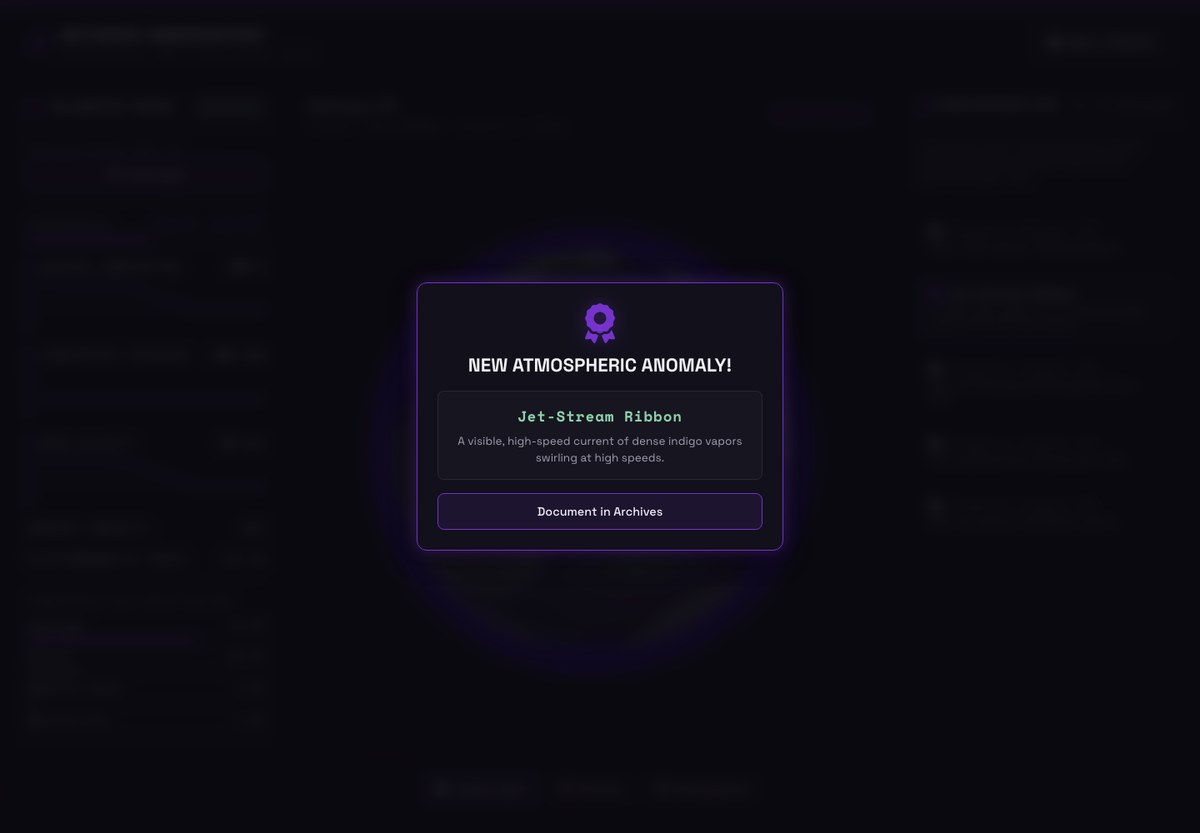
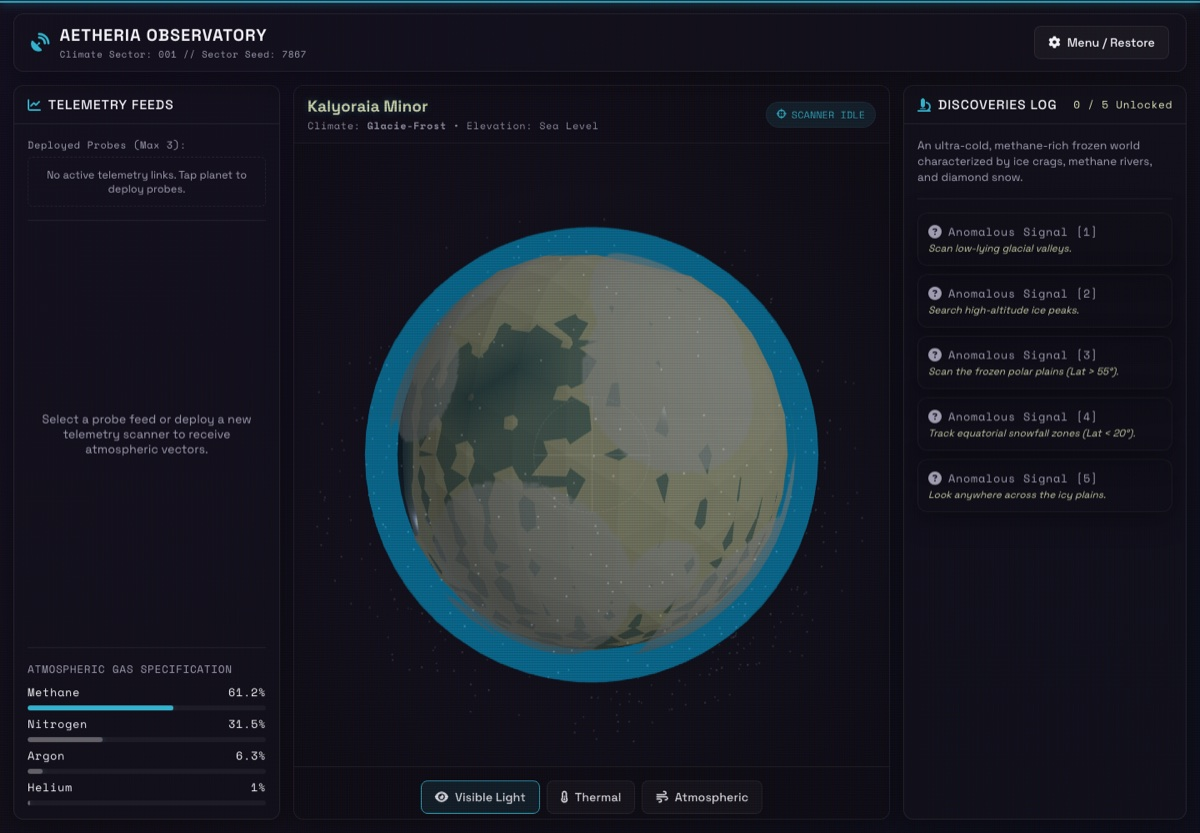
Update alien weather comparison notes

diff --git a/content/posts/alien-weather-observatory-model-comparison.md b/content/posts/alien-weather-observatory-model-comparison.md
@@ -43,7 +43,7 @@ The release checklist was simple:
 - localStorage receives the expected project key.
 - Desktop and mobile layouts avoid horizontal overflow.
 
-The live screenshot pixel checks all passed. The browser console checks were more informative than the screenshots. OpenCode had a real shader compile error before repair. Antigravity shipped with nonfatal Three.js and WebGL warnings. Claude shipped with deprecation warnings. Codex was clean apart from Chromium GPU readback warnings caused by screenshot capture.
+The live screenshot pixel checks all passed. The browser console checks were more informative than the screenshots. OpenCode had a real shader compile error before repair. Antigravity shipped with nonfatal WebGL warnings. Claude shipped with deprecation warnings. Codex was clean apart from Chromium GPU readback warnings caused by screenshot capture.
 
 ![Mobile comparison of the four alien weather observatories](/content/images/alien-weather-observatory-mobile-strip.jpg)
 
@@ -146,7 +146,7 @@ The UI has a strong instrument fantasy. It is less pastel and quiet than the pro
 
 The harness had two important behaviors. First, it stopped after about `50s` with an implementation plan and required a `Proceed` click. I treated that as a harness gate, not a prompt improvement. Second, after about `11m` of implementation it reported that its browser subagent could not run because Chromium automation was only supported on Linux in its sandbox. I did the external Playwright QA myself.
 
-The code is less tidy than the best parts of Claude or GLM. Much of the core implementation sits in a large `App.tsx`, with generated assets and template leftovers around it. Font Awesome is loaded from a CDN rather than installed as a local dependency. The build passes, but the live browser console reports Three.js deprecations and WebGL `texImage3D` warnings.
+The code is less tidy than the best parts of Claude or GLM. Much of the core implementation sits in a large `App.tsx`, with generated assets and template leftovers around it. Font Awesome is loaded from a CDN rather than installed as a local dependency. After the first deployment, a small generated component diff appeared in the working tree. I treated it as part of the Antigravity run, committed it, rebuilt, and redeployed. It replaced `THREE.Clock` timing with capped `performance.now()` timing, which removed the Three.js deprecation warning. The final live browser console still reports WebGL `texImage3D` warnings.
 
 Observable latency and cost notes: the visible harness timing was the clearest of the GUI tools, roughly `50s` to plan plus `11m` to implementation. I did not see a dollar number. It felt fast relative to the amount of player-facing UI it produced.
 
@@ -161,7 +161,7 @@ Cleanup work:
 
 - Exact GitHub Pages base path.
 - External browser QA because its browser subagent could not run.
-- Future cleanup would split the large app file and investigate WebGL warnings.
+- Future cleanup would split the large app file and investigate the remaining WebGL warnings.
 
 ## Cost, Latency, And Where Attention Went
 
@@ -177,7 +177,7 @@ Intervention effort was not evenly distributed:
 
 - Codex needed one release edit.
 - Claude needed one release edit.
-- Antigravity needed one release edit and external QA.
+- Antigravity needed one release edit, one late source fold-in, and external QA.
 - OpenCode needed release edits plus two real runtime/usability fixes.
 
 That is the part I care about. The model choice changed the initial screenshot, and it also changed the kind of cleanup I had to do afterward.